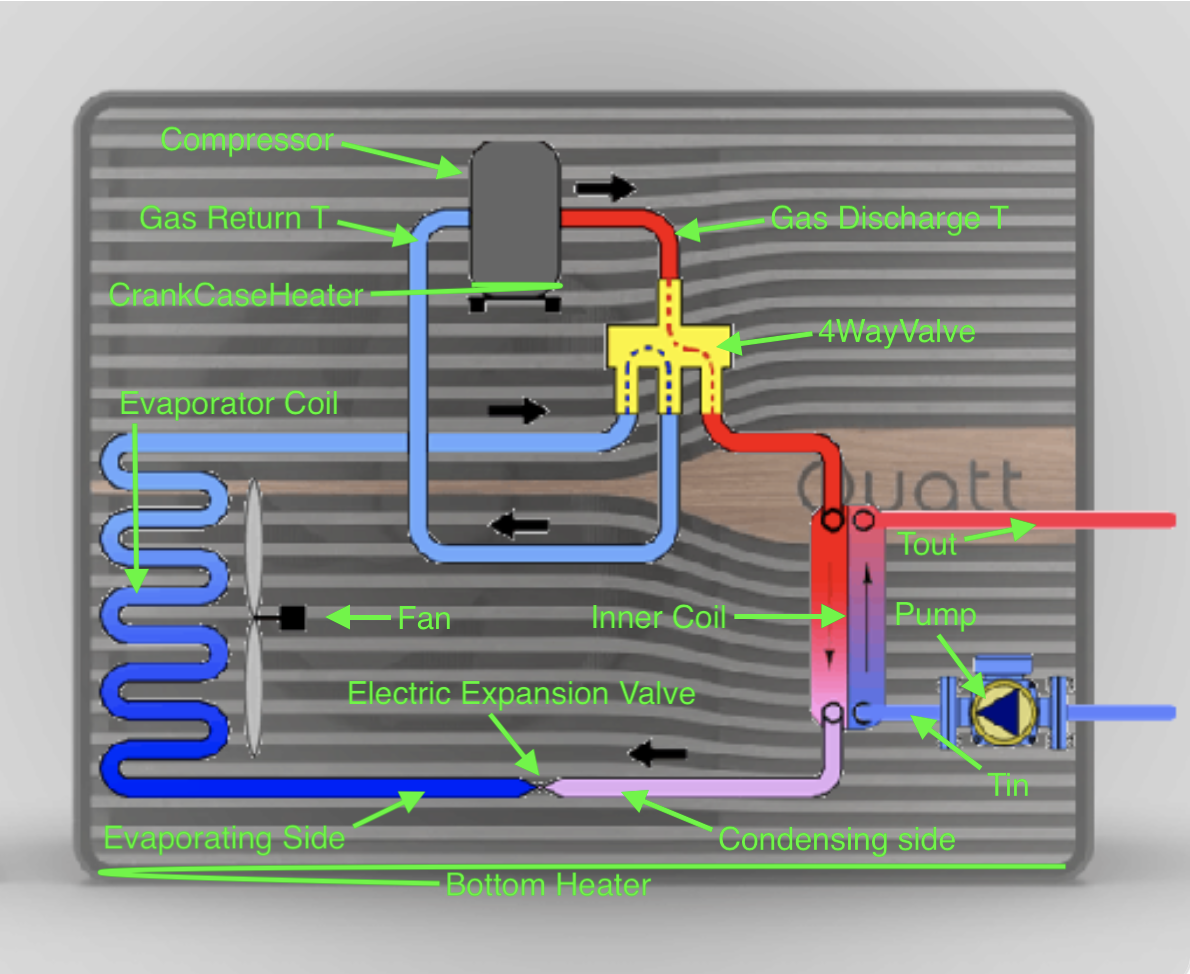
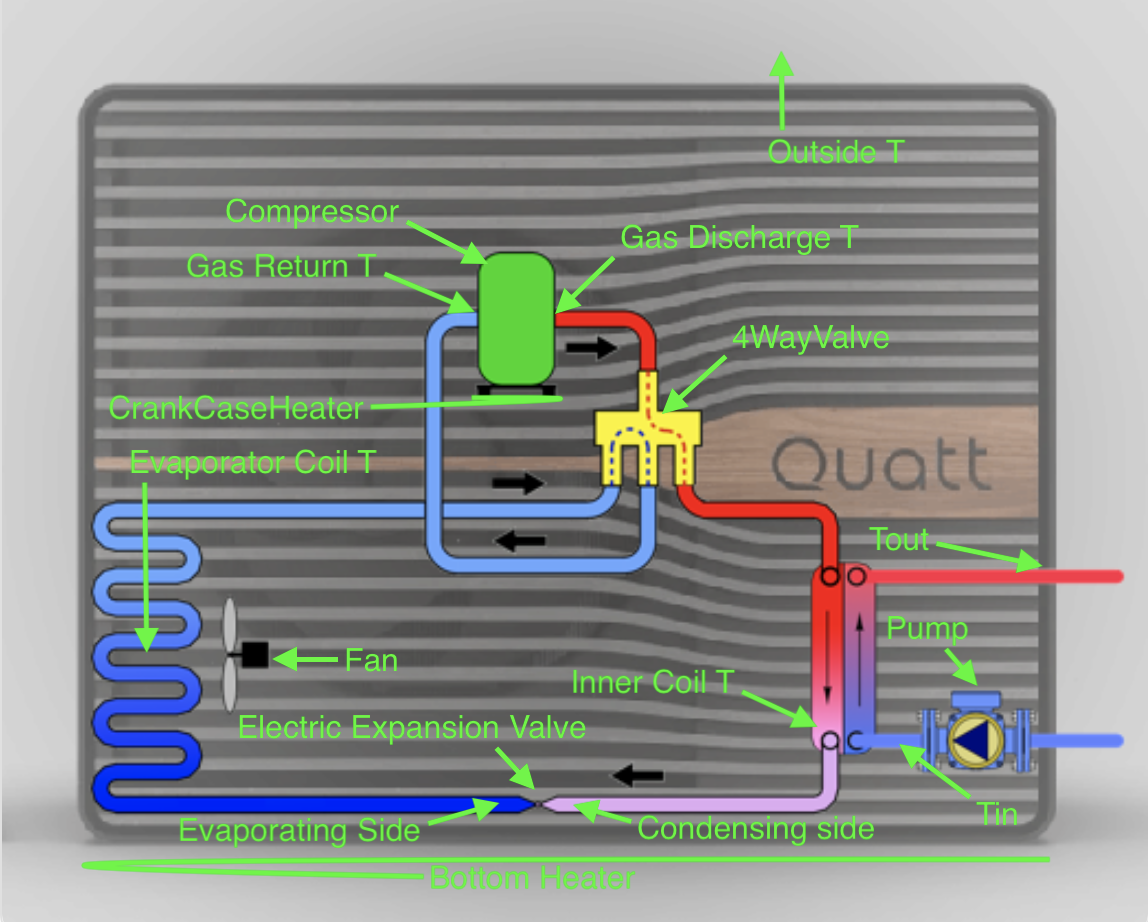
0.8.2++++ more description fine tuning

diff --git a/README.md b/README.md
@@ -60,9 +60,9 @@ And then there is the _actual_ measurement of the device delivering that unit
 | R2104    | Fan Speed Maximum            | R2119b4  | Alarm - High Pressure Switch |
 | R2105    | Fan Speed Actual             | R2119b6  | Alarm - 1st Start Pre-heat   |
 | R2107    | Electric Expansion Valve     | R2119b9  | Alarm - AC High/Low Voltage  |
-| R2108b0  | Low Fan Speed Mode           | R2119b12 | Alarm - Low Pressure Switch  |
-| R2108b2  | Bottom Heater                | R2119    | Status bits R2019            |
-| R2108b3  | Crankcase Heater             | R2120    | Status bits R2020            |
+| R2108b2  | Bottom Heater                | R2119b12 | Alarm - Low Pressure Switch  |
+| R2108b3  | Crankcase Heater             | R2119    | Status bits R2019            |
+| R2108b0  | Low Fan Speed Mode           | R2120    | Status bits R2020            |
 | R2108b4  | Defrost Fan Speed Mode       | R2121    | Status bits R2021            |
 | R2108b5  | High Fan Speed Mode          | R2122    | Firmware Version             |
 | R2108b6  | 4way Valve                   | R2131    | Condensing Temperature       |
@@ -73,8 +73,13 @@ And then there is the _actual_ measurement of the device delivering that unit
 | R2112    | Gas Discharge Temperature    | R2137    | Pump Power                   |
 | R2113    | Gas Return Temperature       | R2138    | Pump Flow                    |
 
-<img src="https://github.com/M10tech/Quatt-sniffer/blob/main/Quatt-Concepts.png" width="400" />  
-This is a schematic diagram that tries to provide a guide to the various items mentioned above
+<img src="https://github.com/M10tech/Quatt-sniffer/blob/main/Quatt-Concepts.png" width="600" />  
+
+This is a schematic diagram that tries to provide a guide to the various items mentioned above.  
+Also the Condensing and Evaporating Temperature are derived from the respective pressures and
+are a [physical property of the R32 cooling agent](https://www.vymeniky-tepla.cz/files/pdf/r32-pt-chart.pdf). They are not physical temperature sensors.
+
+The Status bits are uncertain, and there is no easy way to find out the more obscure ones.
 
 ### Coding strategy
 The idea is to override `modbus` and make it catch all messages on the bus, both commands and responses.  
@@ -106,6 +111,8 @@ Use all this information to set up the registers in the yaml to match what happe
 Do not forget to disable verbose logging once you have an idea of the registers...
 
 ### History
+
+#### 0.8.2++++ more description fine tuning
 
 #### 0.8.2+++ description of sensor names draft
 - to receive feedback before applying to actual sensors
